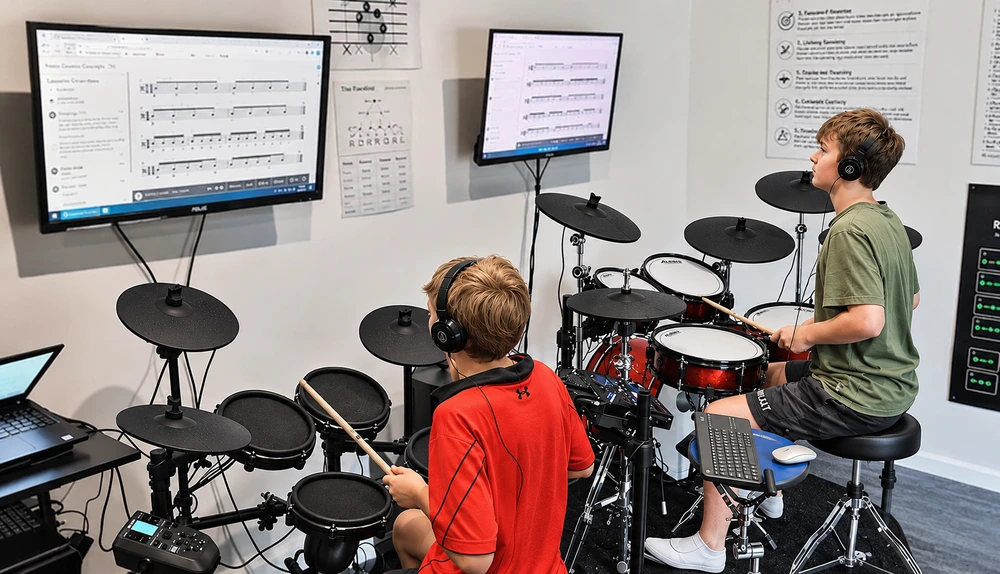
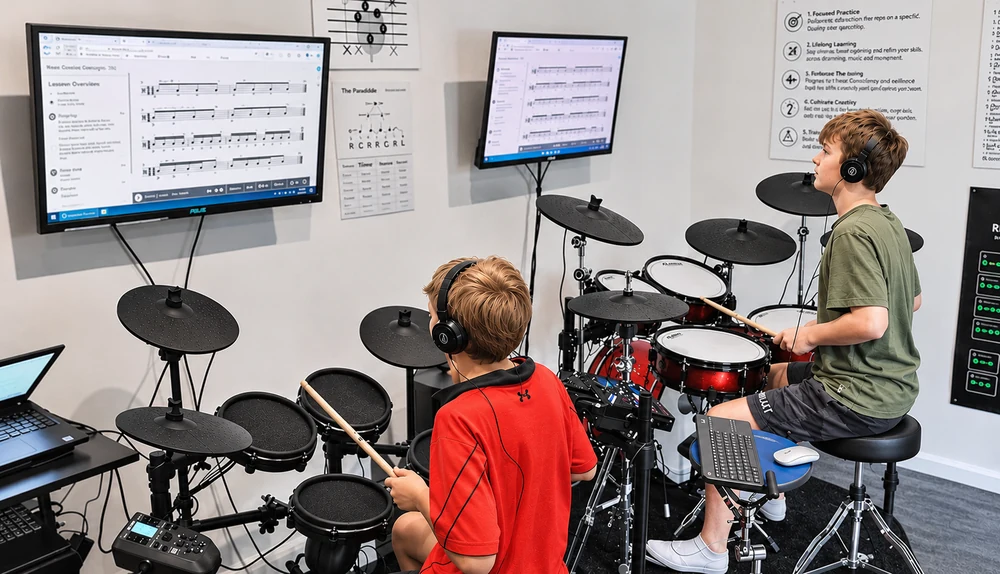
Update website SEO and content

diff --git a/groove/index.html b/groove/index.html
@@ -4,23 +4,23 @@
   <meta charset="utf-8"/>
   <meta content="width=device-width, initial-scale=1" name="viewport"/>
   <meta content="#101214" name="theme-color"/>
-  <title>GrooveScribe | Free Drum Groove Editor | Dave Drums</title>
-  <meta content="Create, play and share drum grooves with GrooveScribe. Write drum notation, practise rhythms, and download or print your grooves with Dave Drums." name="description"/>
+  <title>Groove Lab | Free Drum Groove Editor | Dave Drums</title>
+  <meta content="Create, play and share drum grooves with Groove Lab. Write drum notation, practise rhythms, and download or print your grooves with Dave Drums." name="description"/>
   <link href="https://www.davedrums.com.au/groove/" rel="canonical"/>
   <link href="../img/favicon.png" rel="icon" type="image/png"/>
   <meta content="website" property="og:type"/>
   <meta content="en_AU" property="og:locale"/>
   <meta content="Dave Drums" property="og:site_name"/>
-  <meta content="GrooveScribe | Free Drum Groove Editor | Dave Drums" property="og:title"/>
-  <meta content="Create, play and share your own drum grooves. Write drum notation and download or print your grooves with GrooveScribe." property="og:description"/>
+  <meta content="Groove Lab | Free Drum Groove Editor | Dave Drums" property="og:title"/>
+  <meta content="Create, play and share your own drum grooves. Write drum notation and download or print your grooves with Groove Lab." property="og:description"/>
   <meta content="https://www.davedrums.com.au/groove/" property="og:url"/>
   <meta content="https://www.davedrums.com.au/img/dave-studio1-1920.webp" property="og:image"/>
   <meta content="Dave D’Amore behind his acoustic drum kit in the studio" property="og:image:alt"/>
   <meta content="1920" property="og:image:width"/>
   <meta content="933" property="og:image:height"/>
   <meta content="summary_large_image" name="twitter:card"/>
-  <meta content="GrooveScribe | Free Drum Groove Editor | Dave Drums" name="twitter:title"/>
-  <meta content="Create, play and share your own drum grooves with GrooveScribe." name="twitter:description"/>
+  <meta content="Groove Lab | Free Drum Groove Editor | Dave Drums" name="twitter:title"/>
+  <meta content="Create, play and share your own drum grooves with Groove Lab." name="twitter:description"/>
   <meta content="https://www.davedrums.com.au/img/dave-studio1-1920.webp" name="twitter:image"/>
   <meta content="Dave D’Amore behind his acoustic drum kit in the studio" name="twitter:image:alt"/>
   <link href="../assets/styles.css" rel="stylesheet"/>
@@ -31,7 +31,7 @@
   <script defer="" src="../assets/navigation.js"></script>
   <script defer="" src="../assets/groove.js"></script>
   <script type="application/ld+json">
-   {"@context":"https://schema.org","@type":"WebPage","@id":"https://www.davedrums.com.au/groove/#webpage","url":"https://www.davedrums.com.au/groove/","name":"GrooveScribe | Free Drum Groove Editor | Dave Drums","description":"Create, play and share your own drum grooves.","isPartOf":{"@id":"https://www.davedrums.com.au/#website"},"mainEntity":{"@type":"WebApplication","name":"GrooveScribe","url":"https://groove.davedrums.com.au/","applicationCategory":"MultimediaApplication","operatingSystem":"Web browser"}}
+   {"@context":"https://schema.org","@type":"WebPage","@id":"https://www.davedrums.com.au/groove/#webpage","url":"https://www.davedrums.com.au/groove/","name":"Groove Lab | Free Drum Groove Editor | Dave Drums","description":"Create, play and share your own drum grooves.","isPartOf":{"@id":"https://www.davedrums.com.au/#website"},"mainEntity":{"@type":"WebApplication","name":"Groove Lab","url":"https://groove.davedrums.com.au/","applicationCategory":"MultimediaApplication","operatingSystem":"Web browser"}}
   </script>
  </head>
  <body id="top">
@@ -61,7 +61,7 @@
      <summary aria-controls="nav-tools" aria-describedby="nav-current-section" class="nav-disclosure">Tools <span aria-hidden="true" class="nav-caret">&#x25be;</span></summary>
      <ul class="nav-submenu" id="nav-tools">
       <li><a href="/metronome/">Metronome</a></li>
-      <li><a aria-current="page" href="/groove/">Groove Scribe</a></li>
+      <li><a aria-current="page" href="/groove/">Groove Lab</a></li>
      </ul>
     </details>
     <a class="nav-contact" href="/#contact">Contact <span aria-hidden="true">&#x2197;</span></a>
@@ -69,10 +69,10 @@
   </header>
   <main id="main" tabindex="-1">
    <header class="tool-intro section-shell type-frame">
-    <h1 class="heading-section">GROOVE SCRIBE</h1>
+    <h1 class="heading-section">GROOVE LAB</h1>
     <p class="lead">Create, play and share your own drum grooves.</p>
    </header>
-   <section aria-label="GrooveScribe drum notation editor" class="app-workspace" id="groove-workspace">
+   <section aria-label="Groove Lab drum notation editor" class="app-workspace" id="groove-workspace">
     <dialog aria-labelledby="groove-orientation-title" class="orientation-prompt" id="groove-orientation">
      <div class="orientation-prompt-content">
       <svg aria-hidden="true" class="orientation-phone" fill="none" focusable="false" height="160" stroke="currentColor" stroke-width="3" viewBox="0 0 90 160" width="90">
@@ -91,7 +91,7 @@
      </div>
     </div>
     <p aria-live="polite" class="app-feedback section-shell" id="groove-feedback" role="status"></p>
-    <iframe allow="autoplay; clipboard-write; fullscreen; web-share" allowfullscreen="" class="app-frame" id="groove-frame" src="https://groove.davedrums.com.au/" title="GrooveScribe: interactive drum groove editor"></iframe>
+    <iframe allow="autoplay; clipboard-write; fullscreen; web-share" allowfullscreen="" class="app-frame" id="groove-frame" src="https://groove.davedrums.com.au/" title="Groove Lab: interactive drum groove editor"></iframe>
    </section>
   </main>
   <footer class="site-footer section-shell">
@@ -122,7 +122,7 @@
       <p class="footer-heading is-current" id="footer-tools">Tools</p>
       <ul aria-labelledby="footer-tools">
        <li><a href="/metronome/">Metronome</a></li>
-       <li><a aria-current="page" href="/groove/">Groove Scribe</a></li>
+       <li><a aria-current="page" href="/groove/">Groove Lab</a></li>
       </ul>
      </div>
     </nav>

diff --git a/index.html b/index.html
@@ -166,7 +166,7 @@
      <summary aria-controls="nav-tools" class="nav-disclosure">Tools <span aria-hidden="true" class="nav-caret">&#x25be;</span></summary>
      <ul class="nav-submenu" id="nav-tools">
       <li><a href="/metronome/">Metronome</a></li>
-      <li><a href="/groove/">Groove Scribe</a></li>
+      <li><a href="/groove/">Groove Lab</a></li>
      </ul>
     </details>
     <a class="nav-contact" href="/#contact">Contact <span aria-hidden="true">&#x2197;</span></a>
@@ -298,9 +298,7 @@
        RHYTHM
       </h2>
       <p class="service-lead">
-       One-on-one drum lessons.
-       <br/>
-       Campbellfield, Melbourne.
+       One-on-one drum lessons. Campbellfield, Melbourne.
       </p>
       <p>
        Open to ages 10+ and all experience levels, from complete beginners to advanced drummers.
@@ -511,7 +509,7 @@
       <p class="footer-heading" id="footer-tools">Tools</p>
       <ul aria-labelledby="footer-tools">
        <li><a href="/metronome/">Metronome</a></li>
-       <li><a href="/groove/">Groove Scribe</a></li>
+       <li><a href="/groove/">Groove Lab</a></li>
       </ul>
      </div>
     </nav>

diff --git a/metronome/index.html b/metronome/index.html
@@ -64,7 +64,7 @@
      <summary aria-controls="nav-tools" aria-describedby="nav-current-section" class="nav-disclosure">Tools <span aria-hidden="true" class="nav-caret">&#x25be;</span></summary>
      <ul class="nav-submenu" id="nav-tools">
       <li><a aria-current="page" href="/metronome/">Metronome</a></li>
-      <li><a href="/groove/">Groove Scribe</a></li>
+      <li><a href="/groove/">Groove Lab</a></li>
      </ul>
     </details>
     <a class="nav-contact" href="/#contact">Contact <span aria-hidden="true">&#x2197;</span></a>
@@ -133,7 +133,7 @@
       <p class="footer-heading is-current" id="footer-tools">Tools</p>
       <ul aria-labelledby="footer-tools">
        <li><a aria-current="page" href="/metronome/">Metronome</a></li>
-       <li><a href="/groove/">Groove Scribe</a></li>
+       <li><a href="/groove/">Groove Lab</a></li>
       </ul>
      </div>
     </nav>

diff --git a/lessons/index.html b/lessons/index.html
@@ -114,7 +114,7 @@
      <summary aria-controls="nav-tools" class="nav-disclosure">Tools <span aria-hidden="true" class="nav-caret">&#x25be;</span></summary>
      <ul class="nav-submenu" id="nav-tools">
       <li><a href="/metronome/">Metronome</a></li>
-      <li><a href="/groove/">Groove Scribe</a></li>
+      <li><a href="/groove/">Groove Lab</a></li>
      </ul>
     </details>
     <a class="nav-contact" href="/#contact">Contact <span aria-hidden="true">&#x2197;</span></a>
@@ -553,7 +553,7 @@
       <p class="footer-heading" id="footer-tools">Tools</p>
       <ul aria-labelledby="footer-tools">
        <li><a href="/metronome/">Metronome</a></li>
-       <li><a href="/groove/">Groove Scribe</a></li>
+       <li><a href="/groove/">Groove Lab</a></li>
       </ul>
      </div>
     </nav>

diff --git a/recording/index.html b/recording/index.html
@@ -149,7 +149,7 @@
      <summary aria-controls="nav-tools" class="nav-disclosure">Tools <span aria-hidden="true" class="nav-caret">&#x25be;</span></summary>
      <ul class="nav-submenu" id="nav-tools">
       <li><a href="/metronome/">Metronome</a></li>
-      <li><a href="/groove/">Groove Scribe</a></li>
+      <li><a href="/groove/">Groove Lab</a></li>
      </ul>
     </details>
     <a class="nav-contact" href="/#contact">Contact <span aria-hidden="true">&#x2197;</span></a>
@@ -791,7 +791,7 @@
       <p class="footer-heading" id="footer-tools">Tools</p>
       <ul aria-labelledby="footer-tools">
        <li><a href="/metronome/">Metronome</a></li>
-       <li><a href="/groove/">Groove Scribe</a></li>
+       <li><a href="/groove/">Groove Lab</a></li>
       </ul>
      </div>
     </nav>

diff --git a/404.html b/404.html
@@ -44,7 +44,7 @@
      <summary aria-controls="nav-tools" class="nav-disclosure">Tools <span aria-hidden="true" class="nav-caret">&#x25be;</span></summary>
      <ul class="nav-submenu" id="nav-tools">
       <li><a href="/metronome/">Metronome</a></li>
-      <li><a href="/groove/">Groove Scribe</a></li>
+      <li><a href="/groove/">Groove Lab</a></li>
      </ul>
     </details>
     <a class="nav-contact" href="/#contact">Contact <span aria-hidden="true">&#x2197;</span></a>
@@ -108,7 +108,7 @@
       <p class="footer-heading" id="footer-tools">Tools</p>
       <ul aria-labelledby="footer-tools">
        <li><a href="/metronome/">Metronome</a></li>
-       <li><a href="/groove/">Groove Scribe</a></li>
+       <li><a href="/groove/">Groove Lab</a></li>
       </ul>
      </div>
     </nav>

diff --git a/recording/terms.html b/recording/terms.html
@@ -72,7 +72,7 @@
      <summary aria-controls="nav-tools" class="nav-disclosure">Tools <span aria-hidden="true" class="nav-caret">&#x25be;</span></summary>
      <ul class="nav-submenu" id="nav-tools">
       <li><a href="/metronome/">Metronome</a></li>
-      <li><a href="/groove/">Groove Scribe</a></li>
+      <li><a href="/groove/">Groove Lab</a></li>
      </ul>
     </details>
     <a class="nav-contact" href="/#contact">Contact <span aria-hidden="true">&#x2197;</span></a>
@@ -370,7 +370,7 @@
       <p class="footer-heading" id="footer-tools">Tools</p>
       <ul aria-labelledby="footer-tools">
        <li><a href="/metronome/">Metronome</a></li>
-       <li><a href="/groove/">Groove Scribe</a></li>
+       <li><a href="/groove/">Groove Lab</a></li>
       </ul>
      </div>
     </nav>

diff --git a/assets/navigation.js b/assets/navigation.js
@@ -107,7 +107,7 @@
     if (isMenuOpen() && !header.contains(event.target)) setNavigation(false, true);
   });
   document.addEventListener("keydown", (event) => {
-    // Leave the Groove Scribe orientation dialog's native Escape/focus handling intact.
+    // Leave the Groove Lab orientation dialog's native Escape/focus handling intact.
     if (document.querySelector("dialog[open]")) return;
     if (event.key === "Escape") {
       const openGroup = groups.find((group) => group.open);

diff --git a/README.md b/README.md
@@ -54,7 +54,7 @@ Navigation uses progressive enhancement: native disclosures and static links wor
 
 ## Shared navigation and footer
 
-All seven pages, including Recording Terms and 404, use `Home | About | Services | Tools | Contact`. Services contains Drum Lessons and Drum Recording; Tools contains Metronome and Groove Scribe. These group labels are disclosure controls, not landing-page links. Footers show direct links under Explore, Services and Tools. Recording Terms remains accessible at its existing URL and is not added to either navigation.
+All seven pages, including Recording Terms and 404, use `Home | About | Services | Tools | Contact`. Services contains Drum Lessons and Drum Recording; Tools contains Metronome and Groove Lab. These group labels are disclosure controls, not landing-page links. Footers show direct links under Explore, Services and Tools. Recording Terms remains accessible at its existing URL and is not added to either navigation.
 
 Edit `config/navigation.json` for link labels, destinations or group contents, then run:
 
@@ -67,7 +67,7 @@ The first command updates generated headers/footers in every local HTML page; `-
 
 Navigation and branding use root-relative links/assets so nested pages and missing nested URLs on the 404 work correctly. Exact pages receive `aria-current="page"`; Services stays marked as the current section on Recording Terms without adding a terms link. Home's About and Contact anchors update `aria-current="location"` in both the header and footer.
 
-Desktop disclosures support mouse hover/click, touch, Enter/Space, Tab, arrow keys, Home/End, Escape and outside clicks. Mobile Services/Tools act as mutually exclusive accordions. Escape closes the active group before closing the mobile menu. Focus returns to the controlling summary/button without jumping the page; short menus scroll vertically within the panel. Resize and page restoration clear stale open states. Native dialog focus/Escape handling remains available to the Groove Scribe orientation prompt.
+Desktop disclosures support mouse hover/click, touch, Enter/Space, Tab, arrow keys, Home/End, Escape and outside clicks. Mobile Services/Tools act as mutually exclusive accordions. Escape closes the active group before closing the mobile menu. Focus returns to the controlling summary/button without jumping the page; short menus scroll vertically within the panel. Resize and page restoration clear stale open states. Native dialog focus/Escape handling remains available to the Groove Lab orientation prompt.
 
 Navigation verification used installed Edge with temporary Playwright tooling: 77 page/viewport combinations across all seven pages at 320, 375, 430, 600, 768, 900, 901, 1024, 1200, 1440 and 1920px, plus 320×568 and 844×390 menu checks on every page. Tests cover pointer/touch/keyboard interactions, focus containment/recovery, active indicators, scrolling, native no-JavaScript disclosures, nested-URL 404 links and both embedded tools. Main-page content, existing head metadata, app loaders and sitemap match their pre-navigation sources. Biography, service FAQs and an intercepted enquiry submission also passed; no real enquiry was sent. `scripts/sync-navigation.py --check` and `git diff --check` passed. Reports and screenshots are in `%TEMP%\davedrums-navigation`. Other browsers and physical devices were not separately tested.
 
